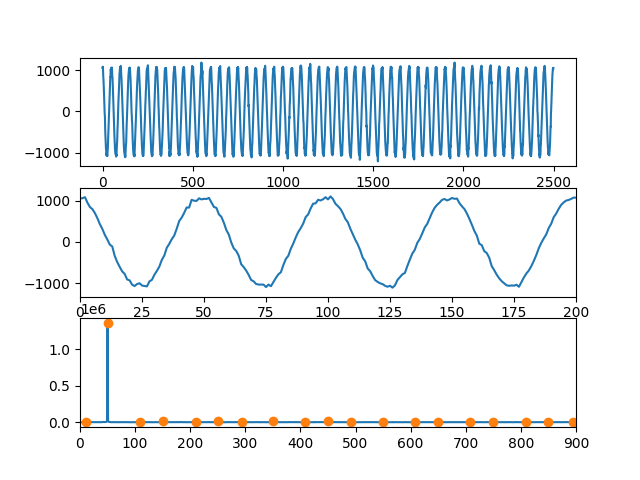
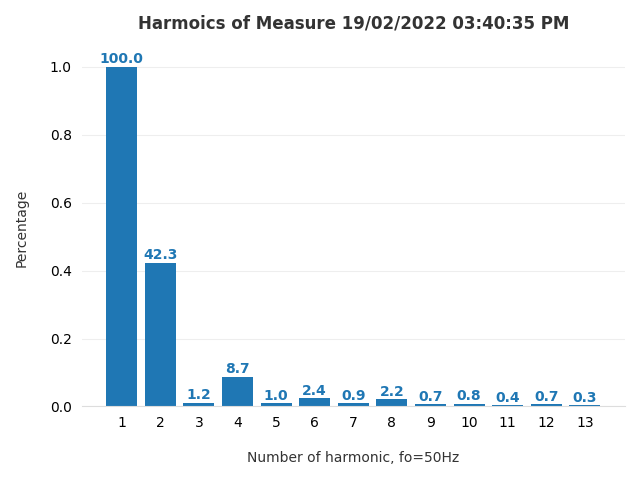
add harmonics processing

diff --git a/dataCSV_4.py b/dataCSV_4.py
@@ -9,6 +9,7 @@ import json
 
 def thd(abs_data,xpeak):  
     sq_sum=0.0
+    print("largo de xpeak ",len(xpeak))
     for r in range(len(abs_data)):
         if(r in xpeak):
             # print(abs_data[r],r)
@@ -42,10 +43,6 @@ corriente = jsonData["current"]
 
 sample_balanced = corriente - np.mean(corriente)
 
-fig, axs = plt.subplots(3)
-axs[0].plot(sample_balanced)
-axs[1].plot(sample_balanced)
-axs[1].set_xlim([0,200])
 abs_yf = np.abs(fft(sample_balanced))
 
 SAMPLE_RATE = 2500  # Hertz
@@ -58,8 +55,6 @@ xf = rfftfreq(N, 1 / SAMPLE_RATE)
 
 yf = f_signal.copy()
 xpeak,ypeak = find_peaks(abs(yf), distance=40)
-# yf[(np.abs(xf)>3)] = 0 # cut signal above 3Hz
-
 
 for x in range(5):
     yf[x] = 0
@@ -67,9 +62,63 @@ for x in range(5):
 
 maxYf = np.amax(np.abs(yf))
 print("MAX -> ",maxYf)
-axs[2].plot(xf, np.abs(yf)/maxYf)
-axs[2].set_xlim([0,900])
-axs[2].plot(xpeak,np.abs(yf[xpeak])/maxYf,'o')
+# X = xpeak
+# Y = np.abs(yf[xpeak])/maxYf
+
+valores = []
+xpeak = np.delete(xpeak,0)
+
+for i in range(11):
+    xpeak = np.delete(xpeak,len(xpeak)-1)
+
+for i in xpeak:
+    valores.append(np.abs(yf[i])/maxYf)
+
+fig, ax = plt.subplots()
+
+# Save the chart so we can loop through the bars below.
+bars = ax.bar(
+    x=np.arange(xpeak.size),
+    height=valores,
+    # tick_label=xpeak
+    # tick_label=[50,100,150,200,250,300,350,400,450,500,550,600,650,700,750,800,850,900,950,1000,1050,1100,1150,1200]
+    tick_label=range(1,xpeak.size+1)
+)
+
+# Axis formatting.
+ax.spines['top'].set_visible(False)
+ax.spines['right'].set_visible(False)
+ax.spines['left'].set_visible(False)
+ax.spines['bottom'].set_color('#DDDDDD')
+ax.tick_params(bottom=False, left=False)
+ax.set_axisbelow(True)
+ax.yaxis.grid(True, color='#EEEEEE')
+ax.xaxis.grid(False)
+
+# Grab the color of the bars so we can make the
+# text the same color.
+bar_color = bars[0].get_facecolor()
+
+# Add text annotations to the top of the bars.
+# Note, you'll have to adjust this slightly (the 0.3)
+# with different data.
+for bar in bars:
+    ax.text(
+        bar.get_x() + bar.get_width() / 2,
+        bar.get_height() + 0.01,
+        round(round(bar.get_height(), 3)*100,1),
+        horizontalalignment='center',
+        color=bar_color,
+        weight='bold'
+    )
+
+# Add labels and a title.
+ax.set_xlabel('Number of harmonic, fo=50Hz', labelpad=15, color='#333333')
+ax.set_ylabel('Percentage', labelpad=15, color='#333333')
+ax.set_title('Harmoics of Measure 19/02/2022 03:40:35 PM', pad=15, color='#333333', weight='bold')
+
+fig.tight_layout()
+
 
 
 # axs[1].set_ylim([100, yf.max()])

diff --git a/esp32Logger.py b/esp32Logger.py
@@ -10,9 +10,9 @@ from client import Client
 import datetime 
 
 print("REQUEST: ",datetime.datetime.now())
-filename = 'sinRectificar/sample2022_02_19-03_57_56_PM.json'
-# filename = 'measurePava.json'
-# Opening JSON file
+filename = 'rectifcadorDiodo/sample2022_02_19-03_40_35_PM.json'
+# filename = 'sinRectificar/sample2022_02_19-03_57_45_PM.json'
+
 f = open(filename)
 jsonData = json.load(f)
 f.close()
